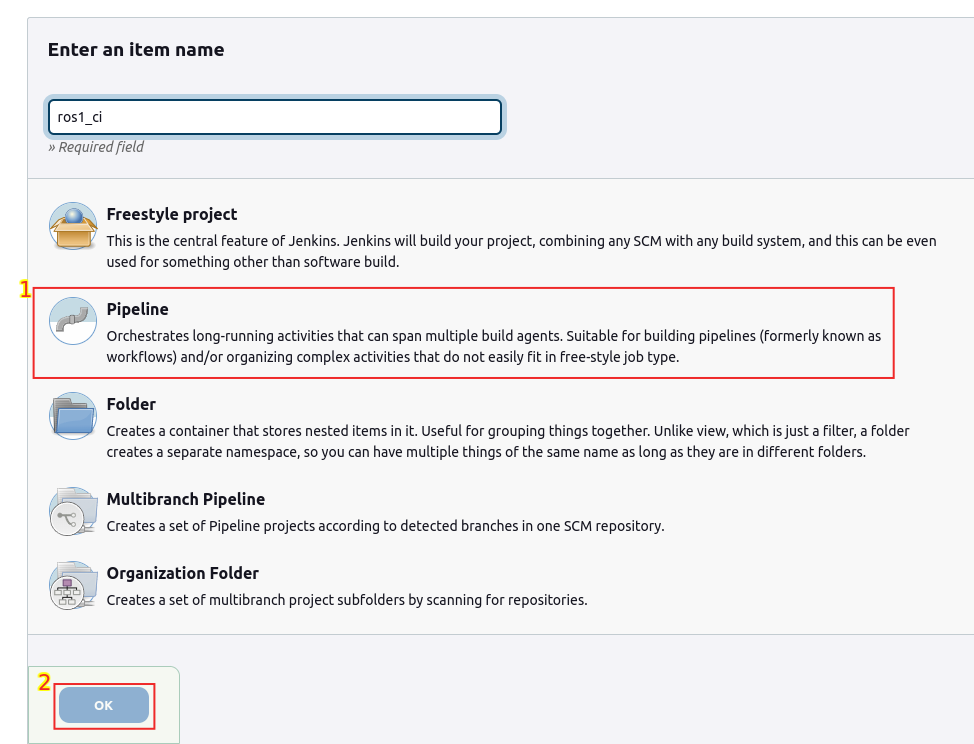
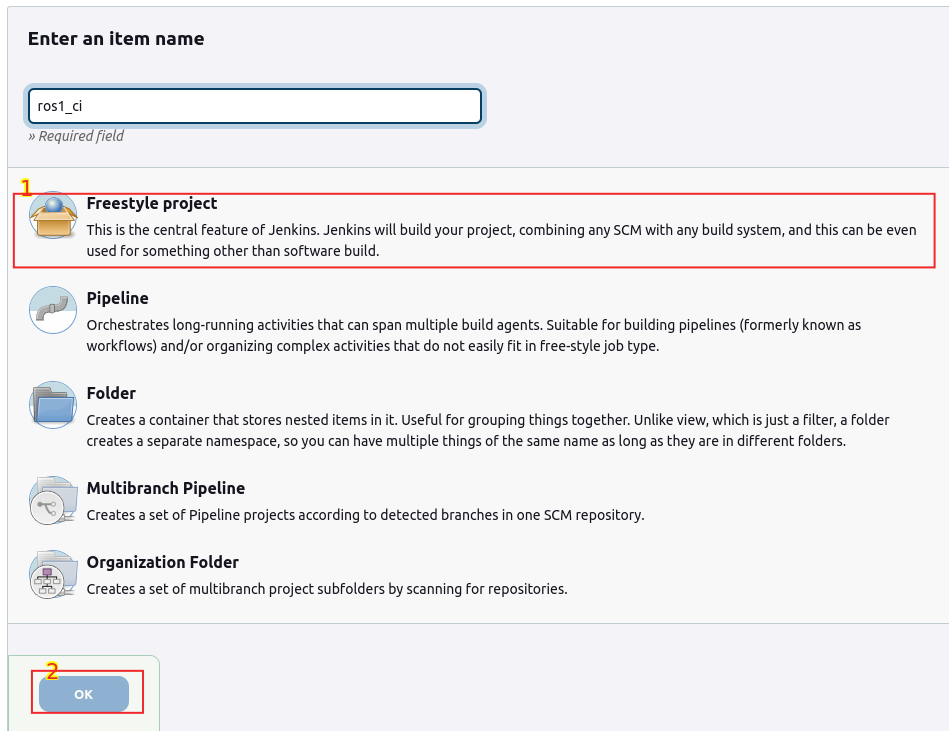
build the Jenkin project with docker successfully

diff --git a/README.md b/README.md
@@ -52,6 +52,46 @@ Add new pipeline, name it ros1_ci as shown in the image
 ![alt text](Jenkins_website_a3_00.png)
 ![alt text](Jenkins_website_a4_00.png)
 
+Place the following script into the box shown in image and click add build step
+
+```
+#!/bin/bash
+cd /home/user/catkin_ws/src
+echo "Will check if we need to clone or just pull"
+if [ ! -d "ros1_ci" ]; then
+  git clone https://github.com/peerajak/Checkpoint24_1o2_Jenkins_Ros1.git ros1_ci
+else
+  cd ros1_ci
+  git pull origin main
+fi
+```
+![alt text](Jenkins_website_a5_00.png)
+
+Repeat the add build step with the following code
+
+```
+cd /home/user/catkin_ws/src/ros1_ci
+docker build -t tortoisebot-waypoints-test:v1 .
+```
+
+Repeat the add build step with the following code
+
+```
+docker context use default
+xhost +local:root
+docker run --rm -e DISPLAY=$DISPLAY -v /tmp/.X11-unix:/tmp/.X11-unix tortoisebot-waypoints-test:v1 
+```
+
+Finally Click Save
+
+Build the project
+
+![alt text](Jenkins_website_a6_00.png)
+
+See a succesful result
+
+![alt text](Jenkins_website_a7_00.png)
+
 - follow Section24, Unit 10.13 until the end.
 
 ## Build and run dockers manually
@@ -67,7 +107,7 @@ docker build -t tortoisebot-waypoints-test:v1 .
 ```
 docker context use default
 xhost +local:root
-docker run -it --rm -e DISPLAY=$DISPLAY -v /tmp/.X11-unix:/tmp/.X11-unix -tortoisebot-waypoints-test:v1 
+docker run -it --rm -e DISPLAY=$DISPLAY -v /tmp/.X11-unix:/tmp/.X11-unix tortoisebot-waypoints-test:v1 
 ```
 - Running on my Local computer
 
